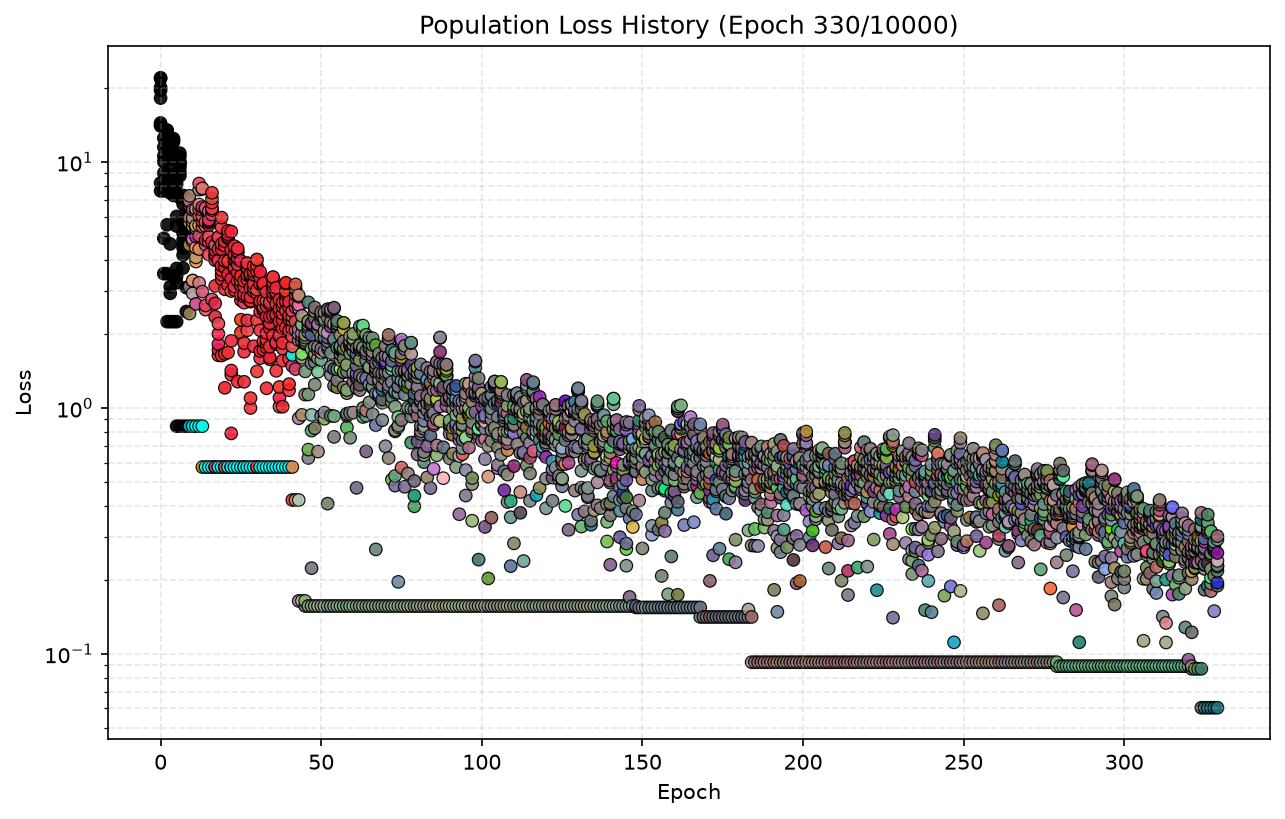
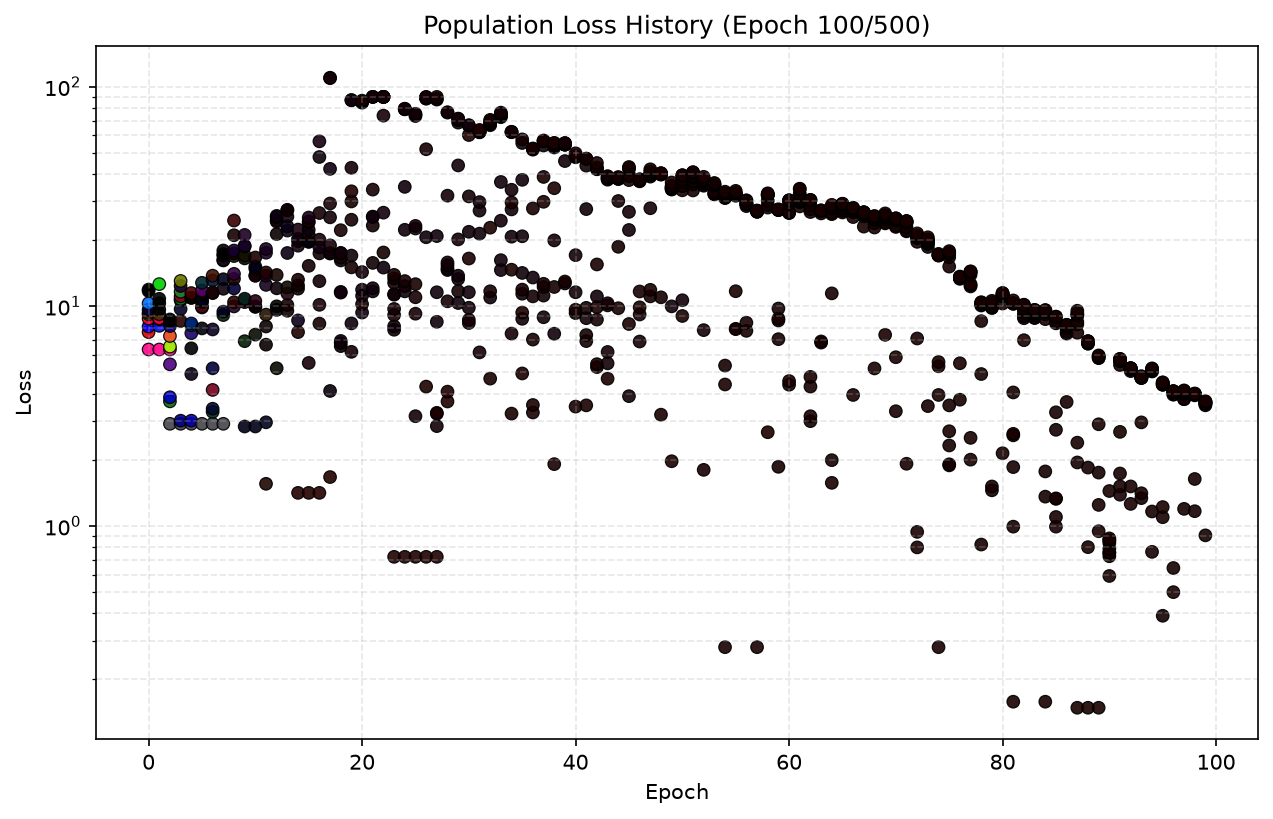
added species tracking, keep top is broken though

diff --git a/src/model.py b/src/model.py
@@ -120,7 +120,7 @@ class Population:
     colors: torch.Tensor # (P, C) float, individual "colors", tracks speciation
 
     func_ids: torch.Tensor # (N,) int, function id for each node
-    ids: torch.Tensor # (N,) int, node ids, tracks unique genes
+    ids: torch.Tensor # (N,) float, node ids, tracks unique genes
     rotations: torch.Tensor # (N, 1, 4) float, quaternion rotation applied to input points
     translations: torch.Tensor # (N, 1, 3) float, offset applied to input points
     inflates: torch.Tensor # (N, 1) float, offset applied to the zero of the sdf
@@ -131,62 +131,85 @@ class Population:
     params: torch.Tensor # (N, M, 1, 1) params for each function (not all are used for every function type)
     
     
-    def train(self, verts: torch.Tensor, n_iter: int, max_nodes_per_batch: int, mut_p: float, mut_std: float, mut_max_angle: float, callback: Callable[[int, int, torch.Tensor, torch.Tensor | None, list[SDF]], None], summary_count: int):
+    def train(self, verts: torch.Tensor, n_iter: int, max_nodes_per_batch: int, mut_p: float, mut_std: float, mut_max_angle: float, species_thresh: float, 
+              do_fitness_sharing: bool, keep_best: int, callback: Callable[[int, int, int, int, torch.Tensor, torch.Tensor, torch.Tensor | None, list[SDF]], None], summary_count: int):
+        
         P = len(self.population)
-        projection = None
+        
+        species_labels = torch.arange(P, device=self.device, dtype=torch.int64) # (P,) species index for each individual
+        species_colors = self.colors.clone() # (S, C), species color per species, sorted by fitness of best member
+        species_reps = species_labels.clone() # (S,) population index of best member of each species
+        
         for i in range(n_iter):
             loss = self.evaluate(verts, max_nodes_per_batch).clamp_max(1e20)
             
-            order = torch.argsort(loss, descending=False, stable=True)  # lowest loss first
+            # ranking based fitness (maybe not optimal, research needed)
+            order = torch.argsort(loss, descending=False, stable=True)
             fitness = torch.empty_like(loss)
             fitness[order] = torch.arange(P, 0, -1, device=loss.device, dtype=loss.dtype)
             
-            best_loss, best_idx = loss.topk(summary_count, largest=False)
+            # species tracking
+            species_colors, species_labels, species_reps, species_counts = self.update_species(order, species_colors, species_thresh)
             
-            best = [self.get_individual(idx) for idx in best_idx]
+            # trigger callback
+            callback(i+1, n_iter, P, species_reps.numel(), species_counts, loss[species_reps[:summary_count]], 
+                     species_colors[:summary_count, :3].clip(0.0, 1.0), [self.get_individual(i) for i in species_reps])
             
-            self.crossover(fitness) # top individual is at population[0]
-            self.mutate(mut_p, mut_std, mut_max_angle, keep=self.population[0])
+            # strategy to preserve diversity (suggested by LLM, research needed)
+            if do_fitness_sharing:
+                fitness /= species_counts[species_labels].to(self.dtype)
             
-            # wait for stuff to settle before choosing a color scheme
-            if i+1 == 10:
-                projection = self.get_color_projection()
-            if projection is not None:
-                callback(i+1, n_iter, best_loss, self.get_colors(*projection)[best_idx], best)
-            else:
-                callback(i+1, n_iter, best_loss, None, best)
-                
-            
-    def get_color_projection(self) -> tuple[torch.Tensor, torch.Tensor]:
-        """
-        Gets the axes to project to rgb
-        """
-        P, C = self.colors.shape
-
-        mean = self.colors.mean(dim=0, keepdim=True)
-        centered = self.colors - mean
-
-        _, _, Vh = torch.linalg.svd(centered, full_matrices=False)
-        components = cast(torch.Tensor, Vh[:3].T)  # (C, 3)
-
-        max_abs_idx = components.abs().argmax(dim=0)
-        signs = torch.sign(components[max_abs_idx, torch.arange(3, device=self.colors.device)])
-        components = components * torch.where(signs == 0, 1.0, signs)
-        return components, mean
+            keep = order[:keep_best]
+            self.crossover(fitness, keep)
+            # kept individuals are placed at population[:|keep|]
+            self.mutate(mut_p, mut_std, mut_max_angle, keep=torch.arange(keep.numel()))
     
     
-    def get_colors(self, components: torch.Tensor, mean: torch.Tensor) -> torch.Tensor:
-        """
-        Projects color genes to RGB values in [0, 1] using PCA.
-        """
+    def update_species(self, fitness_order: torch.Tensor, colors: torch.Tensor, thresh: float):
+        P = len(self.population)
         
-        centered = self.colors - mean
-        rgb = centered @ components  # (P, 3)
-        rgb_min = rgb.amin(dim=0, keepdim=True)
-        rgb_max = rgb.amax(dim=0, keepdim=True)
-        rgb = (rgb - rgb_min) / (rgb_max - rgb_min).clip(0.0, 1.0)
+        # match each individual to its nearest existing species
+        dists = torch.cdist(colors, self.colors) # (S, P)
+        species_distance, nearest_species = torch.min(dists, dim=0) # (P,), (P,)
 
-        return rgb
+        surviving_mask = species_distance < thresh
+        new_idx = (~surviving_mask).nonzero(as_tuple=True)[0] # (N_new,)
+        
+        # compact surviving species IDs to contiguous [0, S_surv)
+        surviving_old_ids = nearest_species[surviving_mask]
+        _, compact_surviving_labels = torch.unique(surviving_old_ids, return_inverse=True)
+        num_surviving = int(compact_surviving_labels.max().item()) + 1 if surviving_old_ids.numel() > 0 else 0
+
+        species_labels = torch.empty(P, device=self.device, dtype=torch.int64)
+        species_labels[surviving_mask] = compact_surviving_labels
+        species_labels[new_idx] = num_surviving + torch.arange(
+            new_idx.numel(), device=self.device, dtype=torch.int64
+        )
+
+        num_species = num_surviving + new_idx.numel()
+        species_counts = torch.bincount(species_labels, minlength=num_species)
+
+        # update species colors to the fittest member of each species
+        ordered_species = species_labels[fitness_order]  # (P,)
+
+        # Find the first occurrence of each species along `order` (= its fittest member)
+        # Scatter in reverse so the earliest index in `order` wins
+        rev_idx = torch.arange(P-1, -1, -1, device=self.device)
+        first_pos_in_order = torch.empty(num_species, device=self.device, dtype=torch.int64)
+        first_pos_in_order[ordered_species[rev_idx]] = rev_idx
+        
+        sorted_first_pos, old_to_new_species = torch.sort(first_pos_in_order)
+        inv_map = torch.empty_like(old_to_new_species)
+        inv_map[old_to_new_species] = torch.arange(num_species, device=self.device)
+
+        # Population indices of representatives, ordered by fitness descending:
+        reps = fitness_order[sorted_first_pos]  # (S,)
+
+        colors = self.colors[reps]
+        counts = species_counts[old_to_new_species]
+        labels = inv_map[species_labels]
+        
+        return colors, labels, reps, counts
     
     
     def get_individual(self, idx: int | torch.Tensor):
@@ -310,76 +333,79 @@ class Population:
         return fitnesses
         
         
-    def crossover(self, weights: torch.Tensor) -> None:
+    def crossover(self, weights: torch.Tensor, keep: torch.Tensor) -> None:
         """
-        Applies crossover and keep best population update
+        Applies crossover and preserves specified individuals at the start of the population.
         Args:
-            weights (torch.Tensor): Per individual weights (fitness)
+            weights (torch.Tensor): Per-individual selection weights (P,)
+            keep (torch.Tensor): Indices of individuals to preserve at slots 0..K-1 (K,)
         """
         P = self.node_counts.shape[0]
+        keep = keep.to(device=self.device, dtype=torch.int64)
+        K = keep.numel()
+        if K > P:
+            raise ValueError(f"Cannot keep {K} individuals in a population of size {P}.")
+
         old_offsets = torch.cumsum(F.pad(self.node_counts[:-1], (1, 0)), dim=0)  # (P,)
-        best_idx = weights.argmax()
 
-        # 1. Preserve the elite individual's exact nodes at child index 0
-        elite_count = int(self.node_counts[best_idx].item())
-        elite_nodes = (
-            torch.arange(elite_count, device=self.device, dtype=torch.int64)
-            + old_offsets[best_idx]
-        )
-        elite_children = torch.zeros(elite_count, device=self.device, dtype=torch.int64)
-        elite_keys = torch.zeros(elite_count, device=self.device, dtype=torch.int64)
+        def expand_indivs(
+            indiv_indices: torch.Tensor, child_offset: int
+        ) -> tuple[torch.Tensor, torch.Tensor]:
+            n_indivs = indiv_indices.shape[0]
+            if n_indivs == 0:
+                empty = torch.empty(0, device=self.device, dtype=torch.int64)
+                return empty, empty
 
-        if P == 1:
-            self.colors = self.colors[best_idx : best_idx + 1]
+            counts = self.node_counts[indiv_indices]
+            total = int(counts.sum().item())
+            local_child = torch.repeat_interleave(
+                torch.arange(n_indivs, device=self.device, dtype=torch.int64), counts
+            )
+            local_offsets = torch.cumsum(F.pad(counts[:-1], (1, 0)), dim=0)
+            local_pos = torch.arange(
+                total, device=self.device, dtype=torch.int64
+            ) - torch.repeat_interleave(local_offsets, counts)
+            old_node_idx = old_offsets[indiv_indices][local_child] + local_pos
+            return local_child + child_offset, old_node_idx
+
+        # 1. Expand all preserved individuals into child slots 0 .. K - 1
+        elite_children, elite_nodes = expand_indivs(keep, child_offset=0)
+        num_children = P - K
+
+        if num_children == 0:
+            self.colors = self.colors[keep]
             gather_idx = elite_nodes
             new_node_to_indiv = elite_children
         else:
-            num_children = P - 1
-
-            # 2. Sample parent pairs for the remaining P - 1 slots (child indices 1 .. P - 1)
+            # 2. Sample parent pairs for the remaining P - K slots (child indices K .. P - 1)
             a = torch.multinomial(weights, num_samples=num_children, replacement=True)
             b = torch.multinomial(weights, num_samples=num_children, replacement=True)
             self.colors = torch.cat(
                 [
-                    self.colors[best_idx : best_idx + 1],
+                    self.colors[keep],
                     0.5 * (self.colors[a] + self.colors[b]),
                 ],
                 dim=0,
             )
 
-            def sample_parent_nodes(parents: torch.Tensor) -> tuple[torch.Tensor, torch.Tensor]:
-                counts = self.node_counts[parents]  # (P - 1,)
-                total = int(counts.sum().item())
-                # Shift child indices by +1 since index 0 is reserved for the elite individual
-                child_idx = (
-                    torch.repeat_interleave(
-                        torch.arange(num_children, device=self.device, dtype=torch.int64),
-                        counts,
-                    )
-                    + 1
-                )
-                local_offsets = torch.cumsum(F.pad(counts[:-1], (1, 0)), dim=0)
-                local_pos = torch.arange(
-                    total, device=self.device, dtype=torch.int64
-                ) - torch.repeat_interleave(local_offsets, counts)
-                old_node_idx = old_offsets[parents][child_idx - 1] + local_pos
+            child_a, nodes_a = expand_indivs(a, child_offset=K)
+            keep_a = torch.rand(nodes_a.shape[0], device=self.device) < 0.5
+            child_a, nodes_a = child_a[keep_a], nodes_a[keep_a]
 
-                keep = torch.rand(total, device=self.device) < 0.5
-                return child_idx[keep], old_node_idx[keep]
+            child_b, nodes_b = expand_indivs(b, child_offset=K)
+            keep_b = torch.rand(nodes_b.shape[0], device=self.device) < 0.5
+            child_b, nodes_b = child_b[keep_b], nodes_b[keep_b]
 
-            child_a, nodes_a = sample_parent_nodes(a)
-            child_b, nodes_b = sample_parent_nodes(b)
-
-            # 3. Combine elite nodes (key 0) with crossover nodes (keys >= 2)
-            keys = torch.cat([elite_keys, child_a * 2, child_b * 2 + 1])
+            # 3. Combine preserved nodes (keys < 2*K) with crossover nodes (keys >= 2*K)
+            keys = torch.cat([elite_children * 2, child_a * 2, child_b * 2 + 1])
             selected_nodes = torch.cat([elite_nodes, nodes_a, nodes_b])
             selected_children = torch.cat([elite_children, child_a, child_b])
 
-            # Guarantee every crossover child (indices >= 1) has at least 1 node
+            # Guarantee every crossover child (indices >= K) has at least 1 node
             counts_check = torch.bincount(selected_children, minlength=P)
             empty_children = (counts_check == 0).nonzero(as_tuple=True)[0]
             if empty_children.numel() > 0:
-                fallback_nodes = old_offsets[a[empty_children - 1]]
+                fallback_nodes = old_offsets[a[empty_children - K]]
                 keys = torch.cat([keys, empty_children * 2])
                 selected_nodes = torch.cat([selected_nodes, fallback_nodes])
                 selected_children = torch.cat([selected_children, empty_children])
@@ -411,20 +437,21 @@ class Population:
         self.params = self.params[gather_idx]
     
     
-    def mutate(self, p_mut: float, std: float, max_angle: float, keep: torch.Tensor | None = None):
+    def mutate(self, p_mut: float, std: float, max_angle: float, keep: torch.Tensor):
         """
         Mutates all nodes with probability p_mut
         Args:
             p_mut (float): Probability each node mutates
             std (float): Standard deviation of mutation magnitude
             max_angle (float): Maximum change in rotation angle
-            keep (Tensor): Nodes indices which may not be mutate
+            keep (Tensor): Individuals which may not be mutated
         """
         # Since mutation occurs per node, there is an implicit bias towards shorter solutions
         
-        mask = torch.empty(self.func_ids.shape, dtype=torch.bool).bernoulli_(p_mut)
-        if keep is not None:
-            mask[keep] = False
+        mask = torch.rand(self.func_ids.shape, device=self.device) < p_mut
+        if keep.numel() > 0:
+            keep_nodes = torch.cat(self.population[:keep.numel()])
+            mask[keep_nodes] = False
         
         idx = mask.nonzero(as_tuple=True)[0]
         K = idx.numel()

diff --git a/src/train.py b/src/train.py
@@ -30,10 +30,27 @@ loss_history = np.zeros((n_iter, summary_count))
 color_history = np.zeros((n_iter, summary_count, 3))
 fig_path = Path("output/loss_history.png")
 
-def callback(iter: int, max_iter: int, losses: torch.Tensor, colors: torch.Tensor | None, sdfs: list[SDF]):
-    summary = ", ".join([f"{loss:.5g}" for loss in losses.cpu().tolist()])
+
+def simpson_index(N: int, n: torch.Tensor):
+    return 1 - torch.sum(n*(n - 1)).cpu().item()/(N*(N - 1))
+
+
+def callback(iter: int, max_iter: int, population: int, species_count: int, species_populations: torch.Tensor, losses: torch.Tensor, colors: torch.Tensor | None, sdfs: list[SDF]):
+    """
+    Args:
+        iter (int): Generation number (starting at 1)
+        max_iter (int): Maximum number of generations
+        population (int): Overall population
+        species_count (int): Number of species in total
+        species_populations (torch.Tensor): Population of every species
+        losses (torch.Tensor): Losses of top {summary_count} species representatives
+        colors (torch.Tensor | None): Rgb colors of top {summary_count} species representatives
+        sdfs (list[SDF]): SDF functions of top {summary_count} species representatives
+    """
+    
+    loss_summary = ", ".join([f"{loss:.5g}" for loss in losses.cpu().tolist()])
     node_count = sum(len(sdf.nodes) for sdf in sdfs)/len(sdfs)
-    print(f"Epoch {iter}/{max_iter} -- avg nodes: {node_count}, loss: [{summary}]")
+    print(f"Generation {iter}/{max_iter} -- Species: {species_count}, Avg Nodes: {node_count:.5g}, Simpson's Index: {simpson_index(population, species_populations):.5g}, Top {summary_count} species:\nloss: {loss_summary}\n")
     loss_history[iter-1] = losses.cpu().numpy()
     if colors is not None:
         color_history[iter-1] = colors.cpu().numpy()
@@ -83,5 +100,8 @@ population.train(
     mut_std = 0.01,
     mut_max_angle = 0.005,
     callback = callback,
-    summary_count = summary_count
+    summary_count = summary_count,
+    do_fitness_sharing = True, # I had a mass extinction, leave this on
+    keep_best = 2,
+    species_thresh = 0.5
 )
